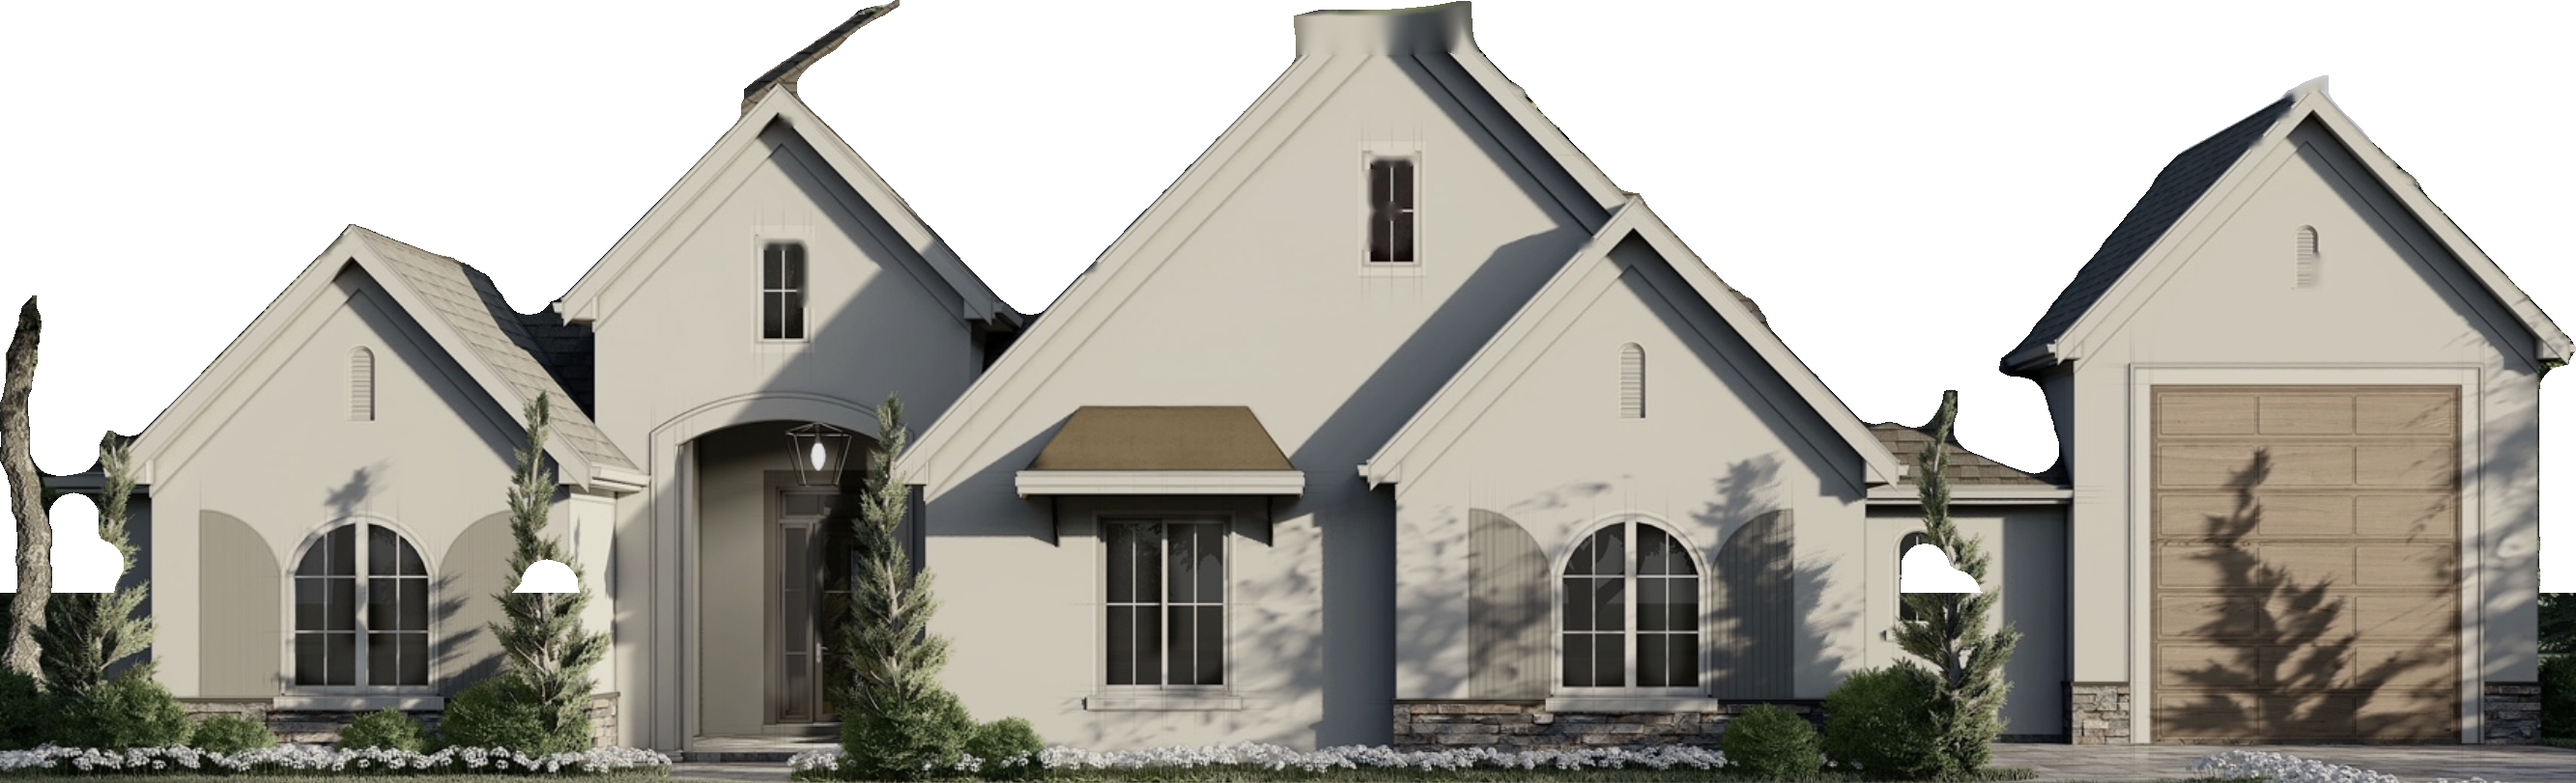
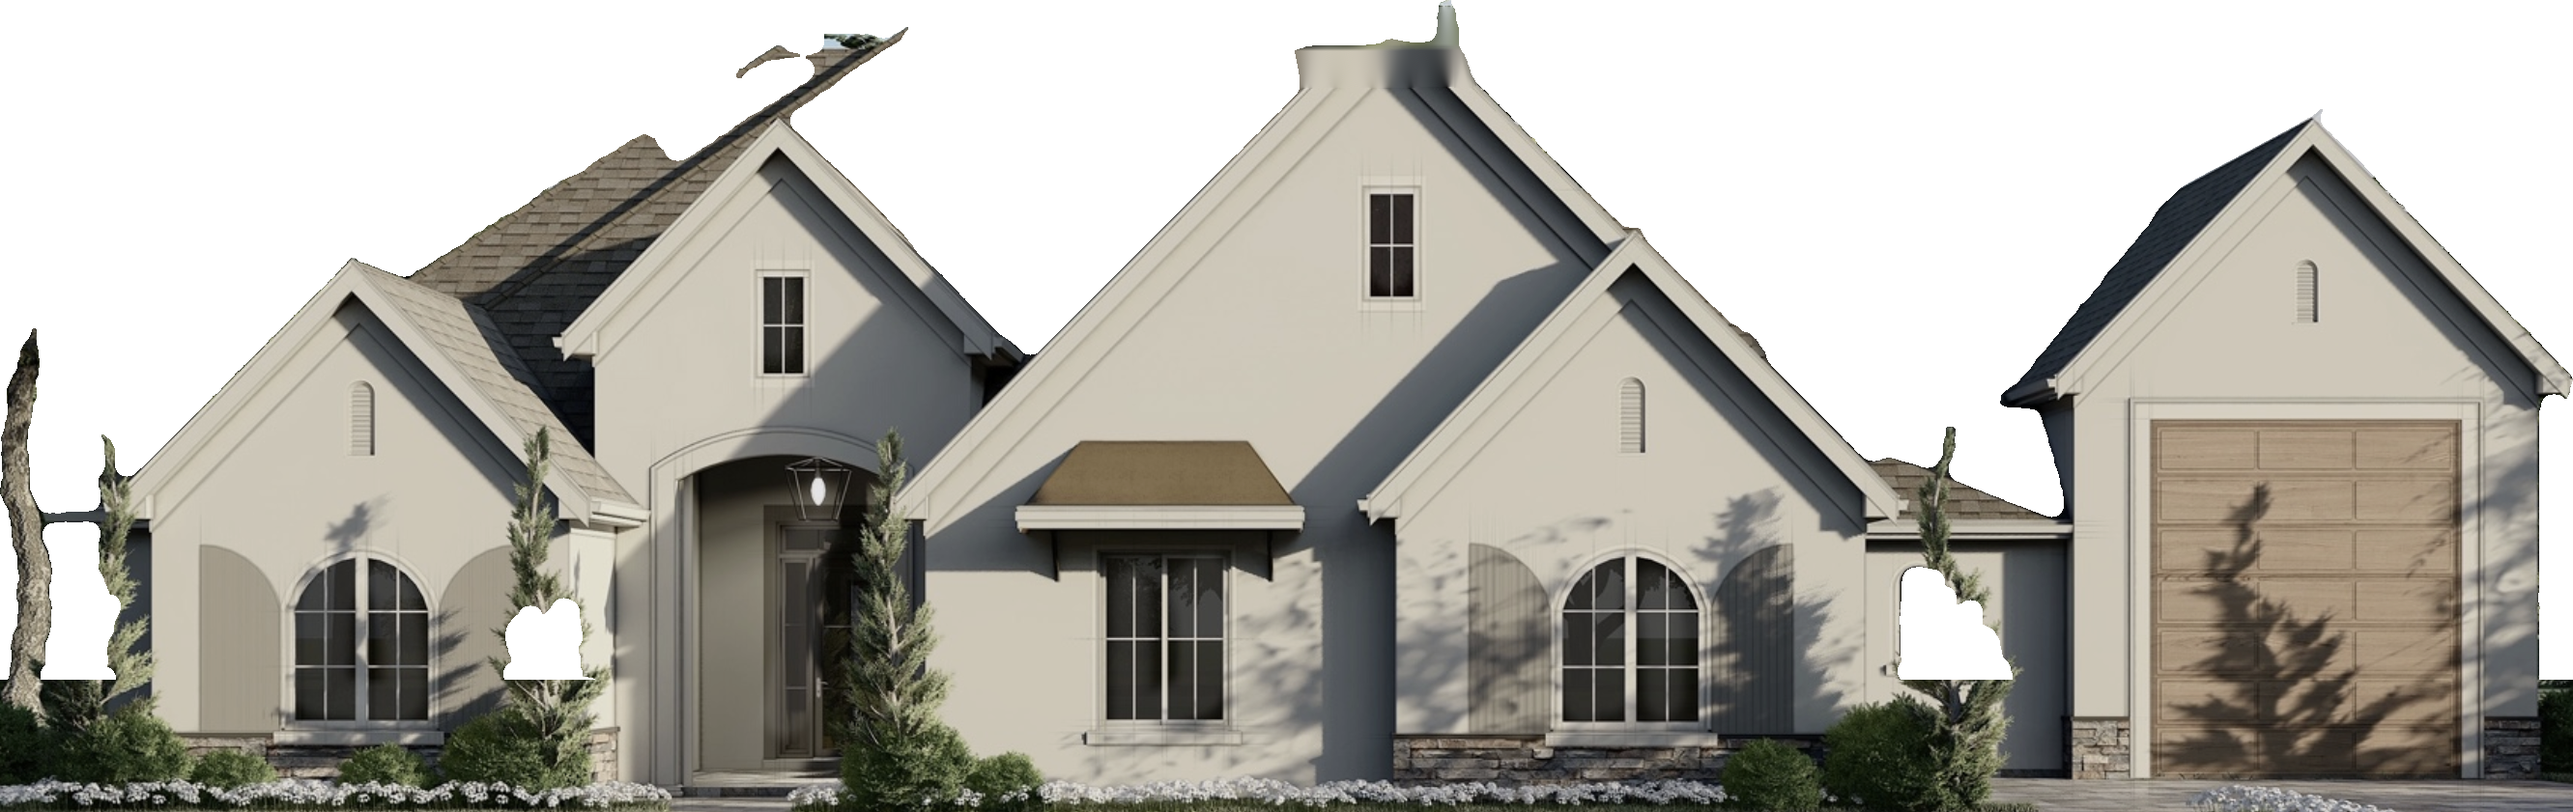
Hide street facade when orbiting; tighten cutout mattes
Photoreal fronts only show from the curb so orbiting reveals the plan
massing as solid 3D. Cutouts get a harder alpha matte so sky/name fringe
does not read as a photo card around the house.

Changed region(s): [[0.0, 0.0, 1.0, 1.0], [0.8727, 0.3699, 0.9039, 0.4007]]

diff --git a/src/components/lotVisualizer/houses.ts b/src/components/lotVisualizer/houses.ts
@@ -487,18 +487,19 @@ export function buildStudioHouse(planId: string): THREE.Group {
   const mat = new THREE.MeshBasicMaterial({
     color: 0xffffff,
     transparent: true,
-    alphaTest: 0.08,
+    alphaTest: 0.35,
     depthWrite: true,
-    side: THREE.DoubleSide,
+    side: THREE.FrontSide,
   })
   const facade = new THREE.Mesh(new THREE.PlaneGeometry(1, 1), mat)
   facade.name = 'streetFacade'
-  // Sit on the street face; scale.x = −1 undoes the Y-π mirror so the garage
-  // stays on the image-right (matching the 3D wing).
-  facade.position.set(0, facadeH / 2, -D / 2 - 0.12)
+  // Flush with the street face; scale.x = −1 undoes the Y-π mirror so the
+  // garage stays on the image-right (matching the 3D wing).
+  facade.position.set(0, facadeH / 2, -D / 2 - 0.04)
   facade.rotation.y = Math.PI
-  facade.scale.set(-W * 1.02, facadeH, 1)
+  facade.scale.set(-W, facadeH, 1)
   facade.renderOrder = 2
+  facade.userData.isStreetFacade = true
   house.add(facade)
   house.userData.facadeHeightM = facadeH
 
@@ -511,23 +512,47 @@ export function applyFacadeTexture(house: THREE.Group, tex: THREE.Texture): void
   if (!facade) return
   tex.colorSpace = THREE.SRGBColorSpace
   tex.anisotropy = 8
+  tex.premultiplyAlpha = false
   const mat = facade.material as THREE.MeshBasicMaterial
   mat.map?.dispose()
   mat.map = tex
   mat.transparent = true
-  mat.alphaTest = 0.08
+  // Binary cutouts — higher alphaTest kills fringe/sky leftovers
+  mat.alphaTest = 0.35
   mat.needsUpdate = true
   facade.visible = true
 
   const img = tex.image as HTMLImageElement | undefined
   if (img?.width && img.height) {
     const W = house.userData.widthM as number
+    const D = house.userData.depthM as number
     const aspect = img.width / img.height
     const h = W / aspect
-    facade.scale.set(-(W * 1.02), h, 1)
-    facade.position.y = h / 2
+    facade.scale.set(-W, h, 1)
+    facade.position.set(0, h / 2, -D / 2 - 0.04)
     house.userData.facadeHeightM = h
   }
+}
+
+/**
+ * Show the photoreal street facade only when the camera is looking at the
+ * front of the house — from the side/rear the plan massing reads as solid 3D
+ * without a floating photo card.
+ */
+export function updateFacadeFacing(house: THREE.Group, camera: THREE.Camera): void {
+  const facade = house.getObjectByName('streetFacade') as THREE.Mesh | undefined
+  if (!facade || !facade.userData.isStreetFacade) return
+  house.updateMatrixWorld(true)
+  const front = new THREE.Vector3(0, 0, -1).transformDirection(house.matrixWorld)
+  const toCam = new THREE.Vector3()
+    .subVectors(camera.position, house.getWorldPosition(new THREE.Vector3()))
+    .normalize()
+  // Fade out as you orbit past ~55° off the street axis
+  const facing = front.dot(toCam)
+  facade.visible = facing > 0.15
+  const mat = facade.material as THREE.MeshBasicMaterial
+  mat.opacity = facing > 0.45 ? 1 : Math.max(0, (facing - 0.15) / 0.3)
+  mat.transparent = true
 }
 
 export function houseFootprint(planId: string): { wM: number; dM: number } {

diff --git a/src/data/plans.ts b/src/data/plans.ts
@@ -44,8 +44,8 @@ export const homePlans: HomePlan[] = [
     name: 'The Brownstone',
     subtitle: 'Front-facing garage + RV bay',
     builder: 'Blackstone Homes',
-    elevationImg: '/plans/brownstone-elevation.jpg?v=drive9',
-    cutoutImg: '/plans/cutouts/brownstone.png?v=drive9',
+    elevationImg: '/plans/brownstone-elevation.jpg?v=drive10',
+    cutoutImg: '/plans/cutouts/brownstone.png?v=drive10',
     floorplanImg: '/plans/thumbs/brownstone-floorplan.jpg',
     pdfUrl: '/plans/brownstone-15-2-rwr.pdf',
     livingArea: '~2,880 sq ft living',
@@ -71,8 +71,8 @@ export const homePlans: HomePlan[] = [
     name: 'The Whitestone',
     subtitle: 'Front-facing garage',
     builder: 'Blackstone Homes',
-    elevationImg: '/plans/whitestone-elevation.jpg?v=drive9',
-    cutoutImg: '/plans/cutouts/whitestone.png?v=drive9',
+    elevationImg: '/plans/whitestone-elevation.jpg?v=drive10',
+    cutoutImg: '/plans/cutouts/whitestone.png?v=drive10',
     floorplanImg: '/plans/thumbs/whitestone-front-floorplan.jpg',
     pdfUrl: '/plans/whitestone-7-2-rwr.pdf',
     livingArea: '~2,140 sq ft living',
@@ -98,8 +98,8 @@ export const homePlans: HomePlan[] = [
     builder: 'Blackstone Homes',
     // Side-entry plan uses the same Whitestone marketing render until a
     // dedicated side-entry exterior photo is supplied.
-    elevationImg: '/plans/whitestone-elevation.jpg?v=drive9',
-    cutoutImg: '/plans/cutouts/whitestone.png?v=drive9',
+    elevationImg: '/plans/whitestone-elevation.jpg?v=drive10',
+    cutoutImg: '/plans/cutouts/whitestone.png?v=drive10',
     floorplanImg: '/plans/thumbs/whitestone-side-floorplan.jpg',
     pdfUrl: '/plans/whitestone-29-3-pse.pdf',
     livingArea: '~2,140 sq ft living',

diff --git a/src/studio/StudioCanvas.tsx b/src/studio/StudioCanvas.tsx
@@ -12,6 +12,7 @@ import { aerialUV, loadAerialTexture } from '../components/lotVisualizer/imagery
 import {
   applyFacadeTexture,
   buildStudioHouse,
+  updateFacadeFacing,
 } from '../components/lotVisualizer/houses'
 import type { StadiumLotFeature } from '../components/LotMap'
 import { getPlan } from '../data/plans'
@@ -917,6 +918,11 @@ export default function StudioCanvas({
     const tick = () => {
       if (disposed) return
       controls.update()
+      // Photoreal facade faces the street; hide it when orbiting so the plan
+      // massing reads as solid 3D instead of a floating photo card.
+      if (massingRef.current?.visible) {
+        updateFacadeFacing(massingRef.current, camera)
+      }
       renderer!.render(scene, camera)
       raf = requestAnimationFrame(tick)
     }
